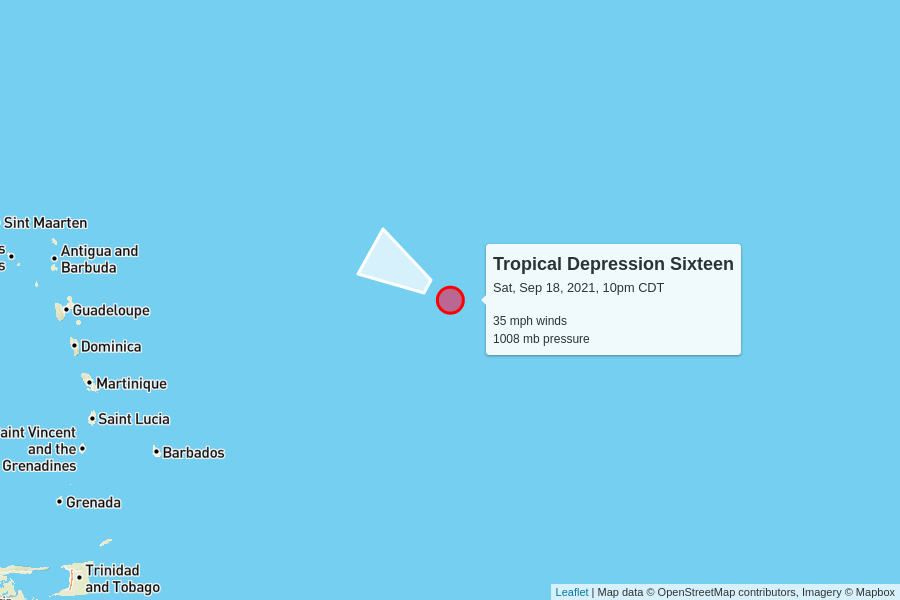
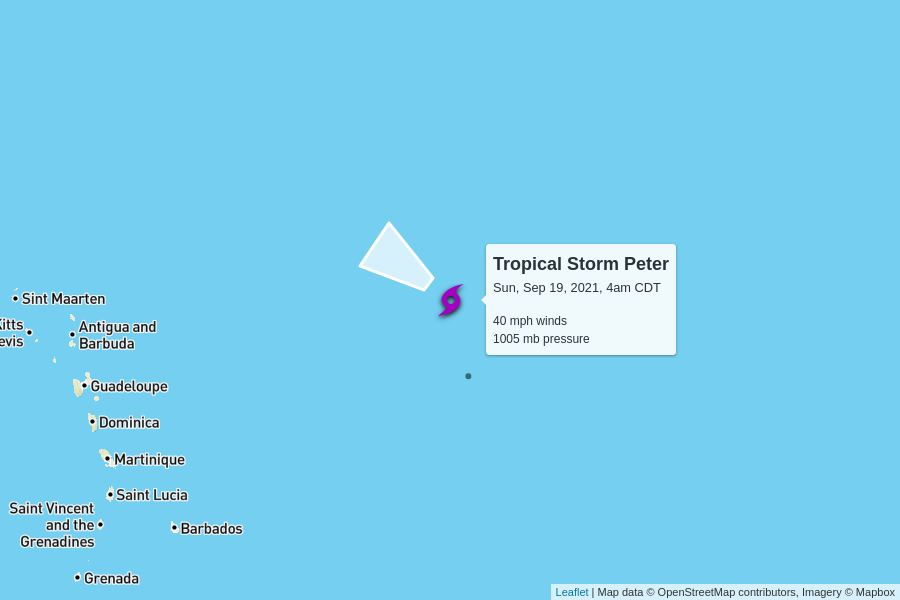
automatic update

diff --git a/docs/index.html b/docs/index.html
@@ -99,8 +99,52 @@
       <tr>
         <td colspan="6" class="storm category-0" >
           <h2>
-            Tropical Depression Sixteen
-            <p class="updated">last updated <span data-time>2021-09-19T03:00:00.000Z</span></p>
+            Tropical Storm Peter
+            <p class="updated">last updated <span data-time>2021-09-19T09:00:00.000Z</span></p>
+          </h2>
+        </td>
+      </tr>
+      
+      <tr>
+        <th class="spacer"></th>
+        <th>wind speed</th>
+        <th>central pressure</th>
+        <th>movement</th>
+        <th>data (CSV)</th>
+        <th>National Hurricane Center</th>
+      </tr>
+      <tr>
+        <td class="spacer"></td>
+        <td>40 mph</td>
+        <td>1005 mb</td>
+        <td>
+          15 mph to the northwest
+          <br/>
+          <span style="display: inline-block; font-size: 1.5em; transform: rotate(305deg);">↑</span>
+        </td>
+        <td><a href="https://raw.githubusercontent.com/mgwalker/atlantic-hurricanes/main/data/csv/AL162021.csv">AL162021.csv</a></td>
+        <td><a href="https://www.nhc.noaa.gov/archive/2021/PETER.shtml?">NHC advisories</a></td>
+      </tr>
+      <tr id="storm_AL162021" >
+        <td class="spacer">
+        <td colspan="5">
+          <figure>
+            <img src="AL162021.png">
+            <figcaption>
+              Map data &copy; <a href="https://www.openstreetmap.org/copyright">OpenStreetMap</a> contributors,
+              Imagery &copy; <a href="https://www.mapbox.com/">Mapbox</a> |
+              <a href="https://www.mapbox.com/map-feedback/" target="_blank">Improve this map</a>
+            </figcaption>
+          </figure>
+        </td>
+      </tr>
+      
+
+      <tr>
+        <td colspan="6" class="storm category-0" >
+          <h2>
+            Tropical Depression Seventeen
+            <p class="updated">last updated <span data-time>2021-09-19T09:00:00.000Z</span></p>
           </h2>
         </td>
       </tr>
@@ -116,20 +160,20 @@
       <tr>
         <td class="spacer"></td>
         <td>35 mph</td>
-        <td>1008 mb</td>
+        <td>1007 mb</td>
         <td>
-          14 mph to the west-northwest
+          14 mph to the north-northwest
           <br/>
-          <span style="display: inline-block; font-size: 1.5em; transform: rotate(300deg);">↑</span>
+          <span style="display: inline-block; font-size: 1.5em; transform: rotate(330deg);">↑</span>
         </td>
-        <td><a href="https://raw.githubusercontent.com/mgwalker/atlantic-hurricanes/main/data/csv/AL162021.csv">AL162021.csv</a></td>
-        <td><a href="https://www.nhc.noaa.gov/archive/2021/SIXTEEN.shtml?">NHC advisories</a></td>
+        <td><a href="https://raw.githubusercontent.com/mgwalker/atlantic-hurricanes/main/data/csv/AL172021.csv">AL172021.csv</a></td>
+        <td><a href="https://www.nhc.noaa.gov/archive/2021/SEVENTEEN.shtml?">NHC advisories</a></td>
       </tr>
-      <tr id="storm_AL162021" >
+      <tr id="storm_AL172021" >
         <td class="spacer">
         <td colspan="5">
           <figure>
-            <img src="AL162021.png">
+            <img src="AL172021.png">
             <figcaption>
               Map data &copy; <a href="https://www.openstreetmap.org/copyright">OpenStreetMap</a> contributors,
               Imagery &copy; <a href="https://www.mapbox.com/">Mapbox</a> |
